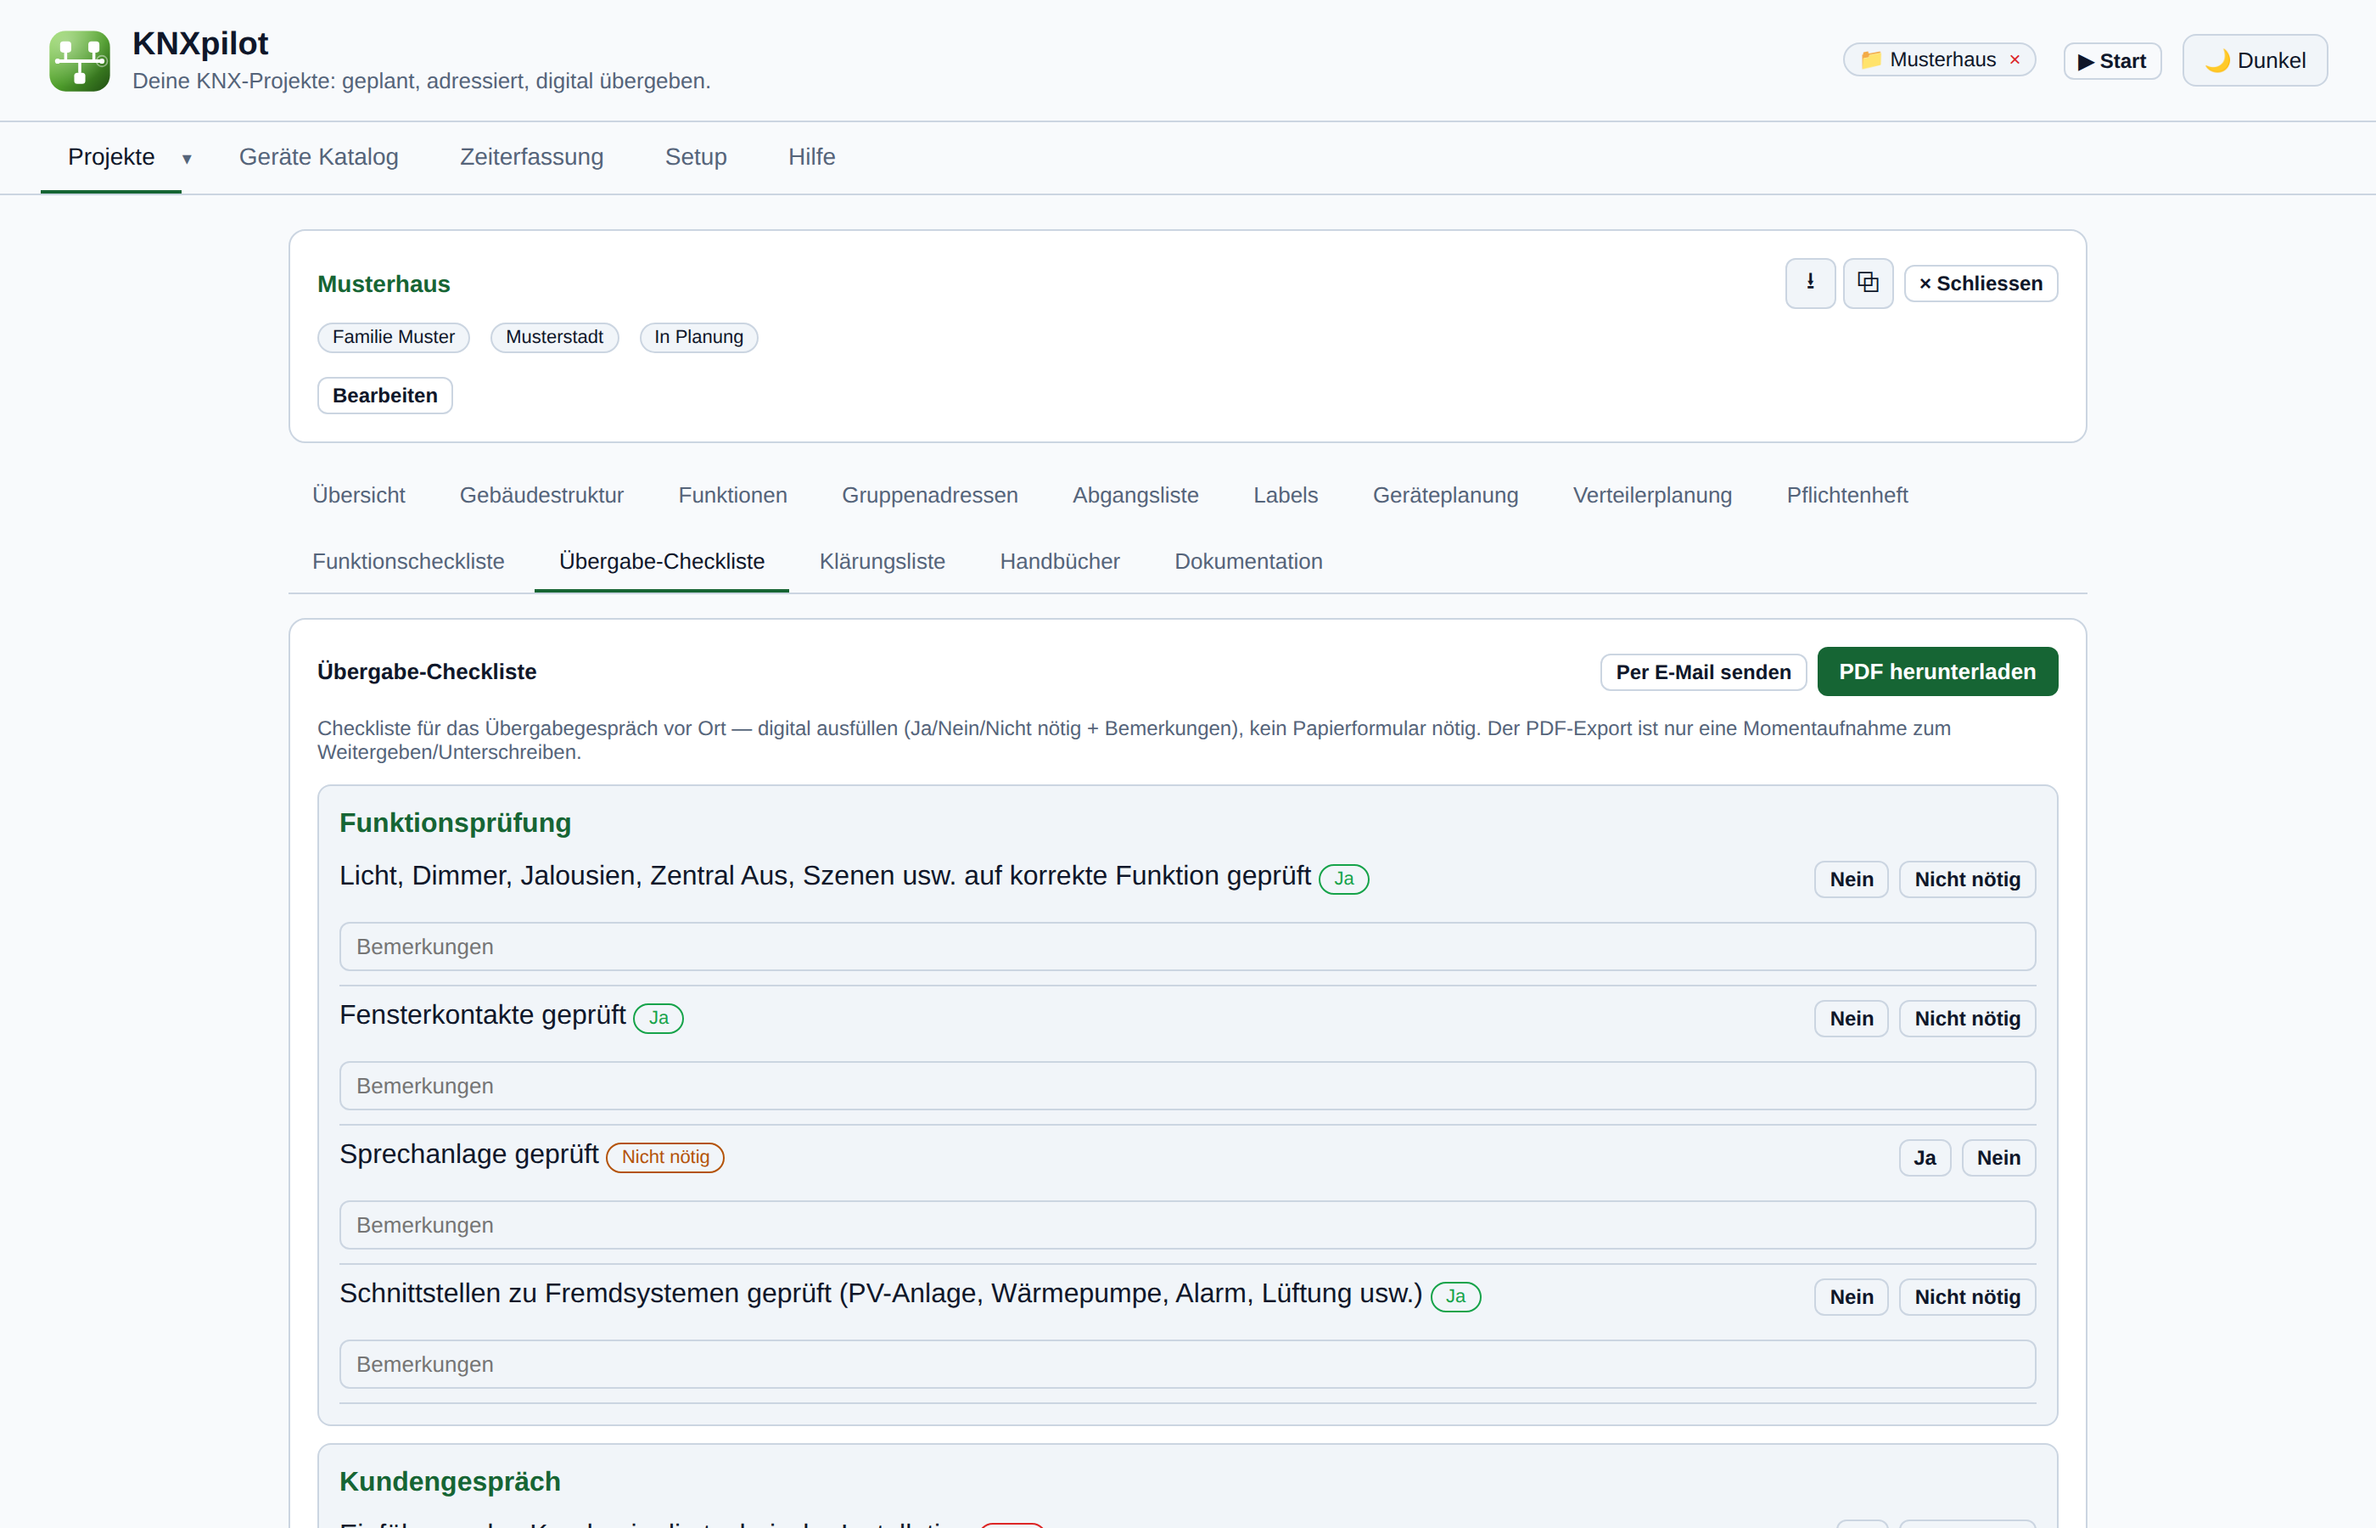
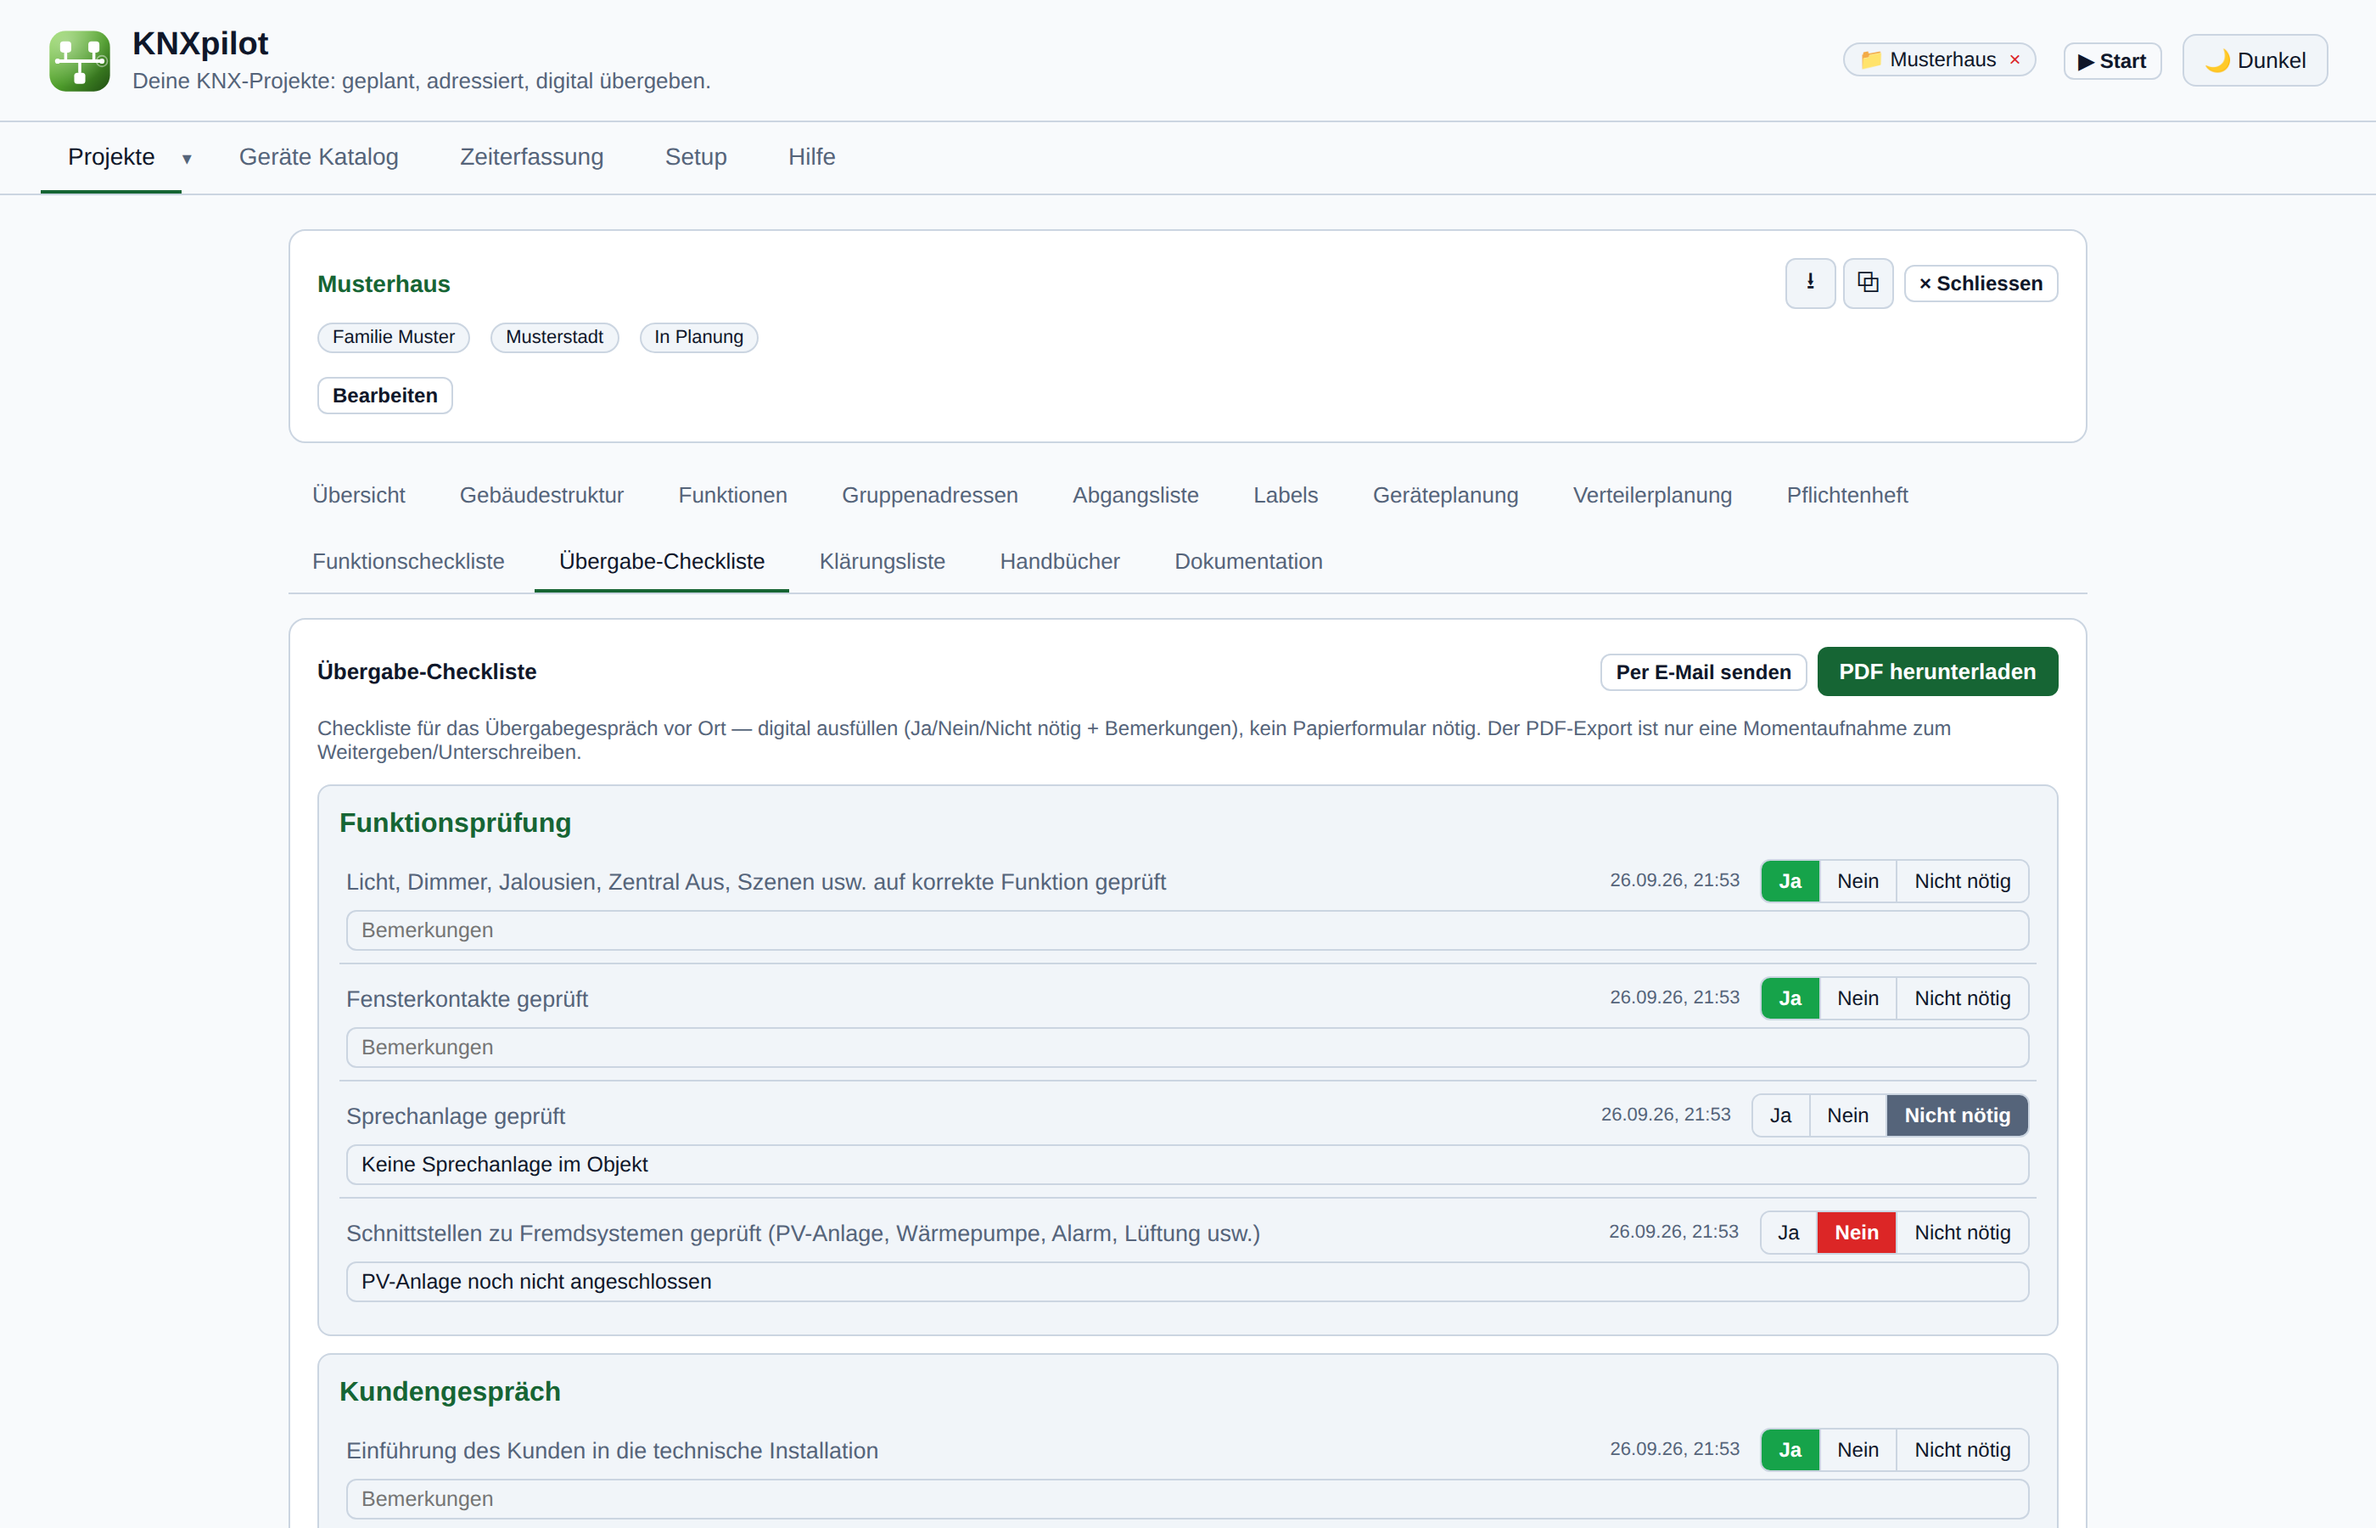
Übergabe-Checkliste: same table look as the Funktionscheckliste

Changed region(s): [[0.1243, 0.56, 0.87, 1.0], [0.3729, 0.9956, 0.435, 1.0]]

diff --git a/frontend/js/uebergabe_checkliste.js b/frontend/js/uebergabe_checkliste.js
@@ -32,27 +32,22 @@ function renderUebergabe() {
 }
 
 const UEB_STATUS_LABEL = {ja: 'Ja', nein: 'Nein', nicht_noetig: 'Nicht nötig'};
-const UEB_STATUS_CLASS = {ja: 'status-geklaert', nein: 'status-abgelehnt', nicht_noetig: 'status-offen'};
 const UEB_STATUS_OPTIONS = ['ja', 'nein', 'nicht_noetig'];
 
+// Same table-like look as the Funktionscheckliste: task on the left, the
+// answer as a Ja | Nein | Nicht nötig switch on the right (tapping the active
+// one clears it), when it was answered, and the Bemerkungen line below.
 function renderUebergabeItem(item) {
   const entry = UEBERGABE_STATUS[item.key] || {status: '', note: ''};
-  const buttons = UEB_STATUS_OPTIONS.filter(v => v !== entry.status)
-    .map(v => `<button class="btn secondary small" onclick="setUebergabeStatus('${item.key}', '${v}')">${UEB_STATUS_LABEL[v]}</button>`)
-    .join('');
+  const segments = UEB_STATUS_OPTIONS.map(v => `<button class="${v}${entry.status === v ? ' active' : ''}"
+      onclick="setUebergabeStatus('${item.key}', '${entry.status === v ? '' : v}')">${UEB_STATUS_LABEL[v]}</button>`).join('');
   return `
-    <div style="padding:8px 0; border-bottom:1px solid var(--border);">
-      <div class="row" style="justify-content:space-between;">
-        <div>
-          <span>${item.text}</span>
-          ${entry.status ? `<span class="pill ${UEB_STATUS_CLASS[entry.status]}">${UEB_STATUS_LABEL[entry.status]}</span>` : ''}
-        </div>
-        <div class="row" style="gap:6px; margin:0;">${buttons}</div>
-      </div>
-      <input type="text" class="flex-input" placeholder="Bemerkungen"
+    <div class="ub-row${entry.status ? ' done' : ''}">
+      <span class="fc-text">${item.text}</span>
+      <span class="ub-right"><span class="fc-when">${checklistWhen(entry)}</span><span class="ub-seg">${segments}</span></span>
+      <input type="text" class="ub-note" placeholder="Bemerkungen"
         value="${escapeAttr(entry.note)}"
-        onblur="saveUebergabeNote('${item.key}', this.value)"
-        style="margin-top:6px; width:100%;">
+        onblur="saveUebergabeNote('${item.key}', this.value)">
     </div>
   `;
 }
@@ -62,7 +57,7 @@ async function setUebergabeStatus(key, status) {
   await api(`/projects/${CURRENT_PROJECT}/checklist-status/${encodeURIComponent(key)}`, {
     method: 'PUT', headers: {'Content-Type': 'application/json'}, body: JSON.stringify({status, note: currentNote}),
   });
-  UEBERGABE_STATUS[key] = {status, note: currentNote};
+  UEBERGABE_STATUS[key] = {status, note: currentNote, updated_at: new Date().toISOString()};
   renderUebergabe();
 }
 
@@ -71,7 +66,7 @@ async function saveUebergabeNote(key, note) {
   await api(`/projects/${CURRENT_PROJECT}/checklist-status/${encodeURIComponent(key)}`, {
     method: 'PUT', headers: {'Content-Type': 'application/json'}, body: JSON.stringify({status: currentStatus, note}),
   });
-  UEBERGABE_STATUS[key] = {status: currentStatus, note};
+  UEBERGABE_STATUS[key] = {...UEBERGABE_STATUS[key], status: currentStatus, note};
   // Local-cache-only, no re-render (matches saveKlAntwortInline's pattern
   // in klaerungsliste.js) - avoids losing focus/cursor on blur-triggered save.
 }

diff --git a/frontend/css/style.css b/frontend/css/style.css
@@ -127,6 +127,20 @@
   .fc-when { font-size:11px; color:var(--muted); font-weight:normal; margin-right:4px; }
   .fc-row.done .fc-text { color:var(--muted); }
   .fc-row.done .fc-check { color:var(--accent); font-weight:600; }
+  /* Übergabe-Checkliste rows (uebergabe_checkliste.js) - same look as .fc-row */
+  .ub-row { display:grid; grid-template-columns:1fr auto; gap:4px 12px; align-items:center; padding:7px 4px; border-bottom:1px solid var(--border); font-size:13.5px; }
+  .ub-row:last-child { border-bottom:none; }
+  .ub-row.done .fc-text { color:var(--muted); }
+  .ub-right { display:flex; align-items:center; gap:8px; }
+  .ub-seg { display:inline-flex; border:1px solid var(--border); border-radius:6px; overflow:hidden; flex-shrink:0; }
+  .ub-seg button { background:var(--panel2); color:var(--text); border:none; border-left:1px solid var(--border); padding:5px 10px; font-size:12px; cursor:pointer; }
+  .ub-seg button:first-child { border-left:none; }
+  .ub-seg button:hover { color:var(--accent); }
+  .ub-seg button.active { color:var(--btn-text); font-weight:600; }
+  .ub-seg button.ja.active { background:var(--accent2); }
+  .ub-seg button.nein.active { background:var(--danger); }
+  .ub-seg button.nicht_noetig.active { background:var(--muted); }
+  .ub-note { grid-column:1 / -1; font-size:12.5px; padding:4px 8px; width:100%; box-sizing:border-box; }
   /* Gebäudestruktur tree (projekte.js) */
   .struct-tree { border:1px solid var(--border); border-radius:8px; background:var(--panel2); padding:6px; }
   .st-floor + .st-floor { margin-top:4px; }
@@ -294,6 +308,8 @@
 
   @media (max-width: 700px) {
     .st-meta { display:none; }
+    .ub-row { grid-template-columns:1fr; }
+    .ub-right { justify-content:flex-end; }
     .doc-row { grid-template-columns:18px 1fr; }
     .doc-detail { grid-column:2; }
     .fc-row { grid-template-columns:86px 1fr auto; gap:8px; }

diff --git a/frontend/js/funktionscheckliste.js b/frontend/js/funktionscheckliste.js
@@ -57,9 +57,10 @@ function renderFunktionsSignatures() {
     </div>`;
 }
 
-// "26.09.26, 14:32" - updated_at is sqlite CURRENT_TIMESTAMP (UTC, no zone).
+// "26.09.26, 14:32" for an answered/ticked item - updated_at is sqlite
+// CURRENT_TIMESTAMP (UTC, no zone). Also used by the Übergabe-Checkliste.
 function checklistWhen(entry) {
-  if (!entry || entry.status !== 'ok' || !entry.updated_at) return '';
+  if (!entry || !entry.status || !entry.updated_at) return '';
   const iso = entry.updated_at.includes('T') ? entry.updated_at : entry.updated_at.replace(' ', 'T') + 'Z';
   return new Date(iso).toLocaleString('de-DE', {day: '2-digit', month: '2-digit', year: '2-digit', hour: '2-digit', minute: '2-digit'});
 }

diff --git a/MANUAL.md b/MANUAL.md
@@ -511,9 +511,11 @@ Ein zweites, weitgehend allgemeines digitales Formular für das
 Anlagenübergabe) — bewusst auf die Arbeit des Systemintegrators
 beschränkt (Programmierung/Inbetriebnahme, Kundengespräch, Übergabe),
 ohne Punkte zur physischen Elektroinstallation (Verdrahtung, Montage,
-E-Check usw.), die Sache des Elektrikers ist. Je Punkt ein
-Ja/Nein/Nicht-nötig-Status plus ein
-Bemerkungsfeld, direkt hier ausgefüllt und gespeichert; nur der
+E-Check usw.), die Sache des Elektrikers ist. Gleiche Tabellenoptik wie
+die Funktionscheckliste: je Punkt rechts ein Schalter **Ja | Nein | Nicht
+nötig** (die gewählte Antwort farbig; nochmals antippen hebt sie wieder
+auf), daneben wann sie gesetzt wurde, darunter ein Bemerkungsfeld —
+direkt hier ausgefüllt und gespeichert; nur der
 Projektname ist projektspezifisch, der restliche Fragenkatalog ist fest
 und wiederverwendbar.
 

diff --git a/CHANGELOG.md b/CHANGELOG.md
@@ -100,6 +100,10 @@ restructuring below — history before that is available via `git log`.
 
 ### Changed
 
+- **Übergabe-Checkliste in the same table look** — each item has a
+  Ja | Nein | Nicht nötig switch on the right (the chosen answer coloured,
+  tapping it again clears it), when it was answered, and a slimmer
+  Bemerkungen line; README screenshot refreshed.
 - **Funktionscheckliste as a table** — category pill in front, function in
   a slightly smaller font, and "getestet" with the checkbox on the right;
   the whole row is tappable and tested rows are greyed out.
